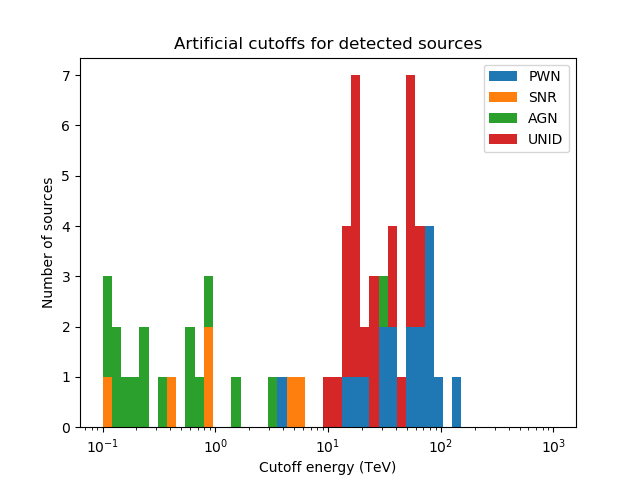
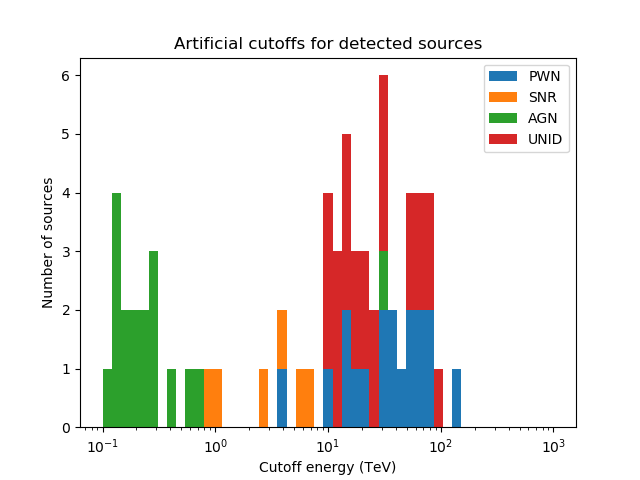
add SS433 lobes

diff --git a/skymodel/scripts/make_model.py b/skymodel/scripts/make_model.py
@@ -320,13 +320,16 @@ for template in template_list:
         # add templates
         models_template = gammalib.GModels('../known-sources/templates/{}.xml'.format(name))
         for model in models_template:
-            # find model map name and path
-            filename = model.spatial().filename().file()
-            filepath = model.spatial().filename().path()
-            # copy file to output directory
-            shutil.copy(filepath + filename, './')
-            # replace file with the one in output directory
-            model.spatial(gammalib.GModelSpatialDiffuseMap(filename))
+            # if model contains spatial map take care of it
+            if model.spatial().type() == 'DiffuseMap':
+                # find model map name and path
+                filename = model.spatial().filename().file()
+                filepath = model.spatial().filename().path()
+                # copy file to output directory
+                shutil.copy(filepath + filename, './')
+                # replace file with the one in output directory
+                model.spatial(gammalib.GModelSpatialDiffuseMap(filename))
+            # append model to container
             models.append(model)
 
 msg = 'Replaced {} gamma-cat sources with templates. Added {} sources as templates\n'.format(

diff --git a/skymodel/scripts/cutoffs.py b/skymodel/scripts/cutoffs.py
@@ -449,6 +449,8 @@ def get_cutoff_agn(z):
     # if redshift not measured draw random number following distribution in 3FHL
     if np.isnan(z):
         z = np.random.exponential(scale=0.7)
+        # low-z cut to avoid AGN next door
+        z = np.maximum(0.1,z)
 
     # maximum energy allowed by EBL absorption
     # based on Figure 17 of 3FHL paper, analytical approx of max energy
